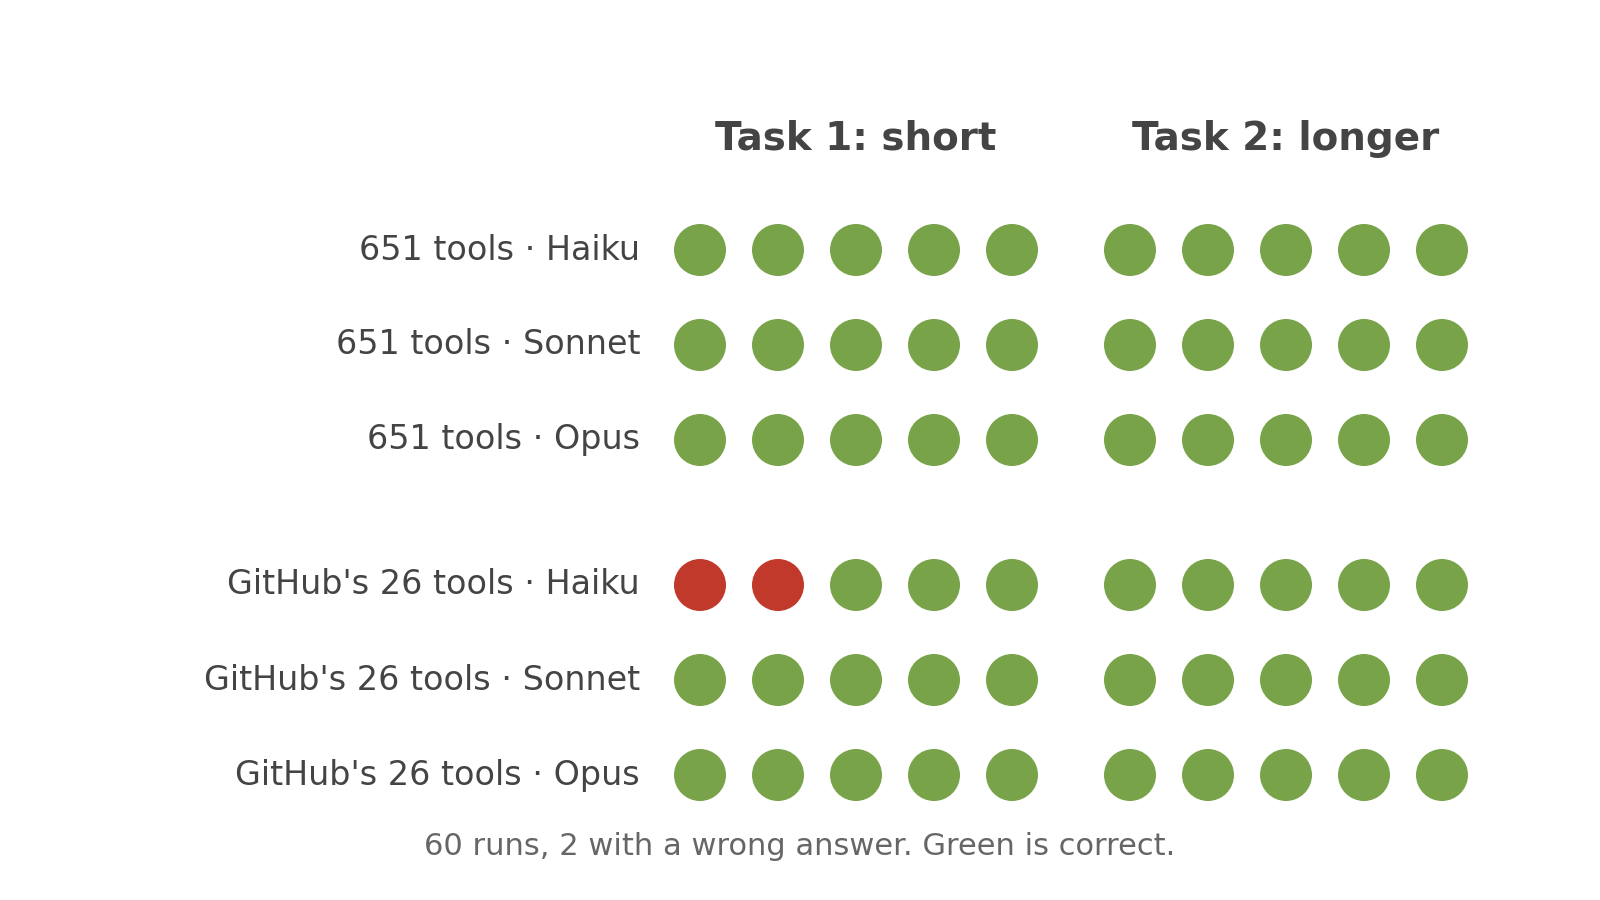
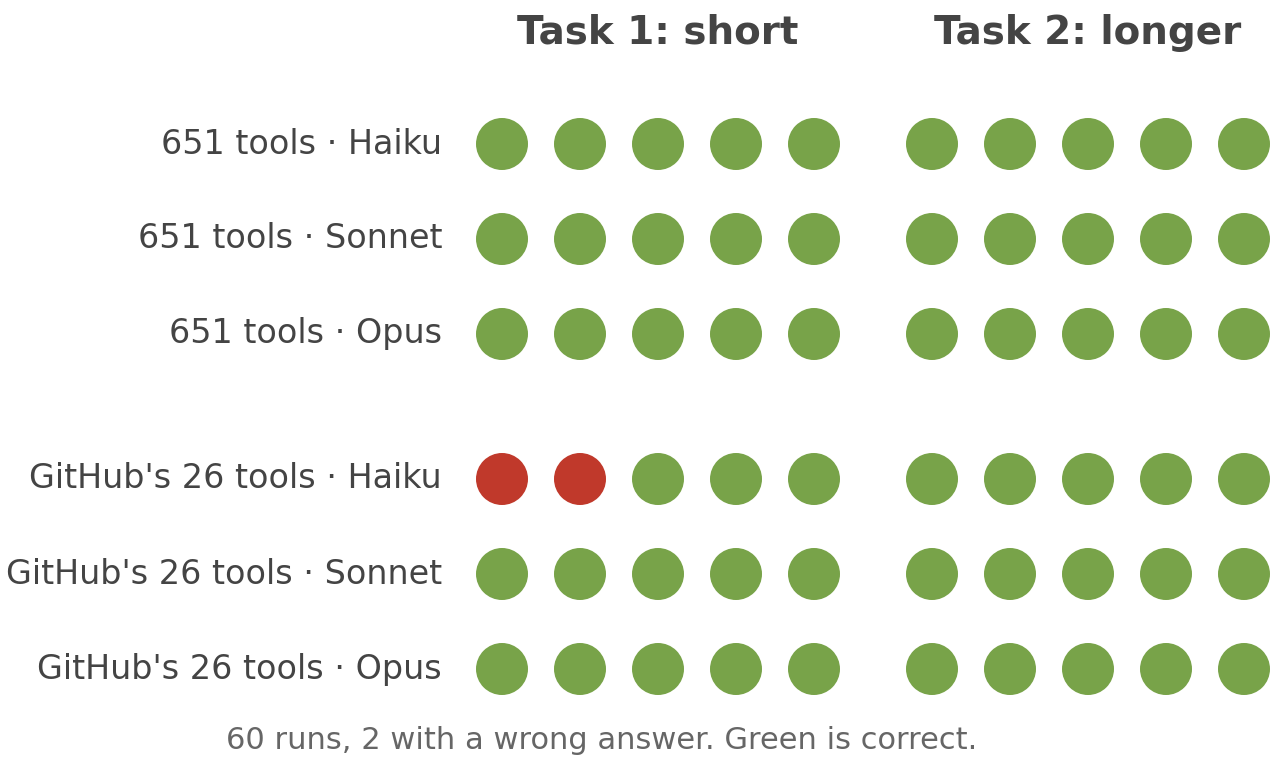
getting slides done

diff --git a/wjax-2026/index.html b/wjax-2026/index.html
@@ -1,5 +1,5 @@
 
-<!-- Do not edit by hand! Generated by Hotspot on 2026-10-28T17:18:39.763+01:00. Edit the source XML document instead! --><!DOCTYPE html
+<!-- Do not edit by hand! Generated by Hotspot on 2026-10-29T15:03:35.924+01:00. Edit the source XML document instead! --><!DOCTYPE html
   PUBLIC "-//W3C//DTD XHTML 1.0 Transitional//EN" "http://www.w3.org/TR/xhtml1/DTD/xhtml1-transitional.dtd">
 <html xmlns="http://www.w3.org/1999/xhtml">
    <head>
@@ -21,18 +21,25 @@
       <link rel="home" href="./" title="W-JAX 2026" />
       <link rel="chapter" href="index" title="What AI Agents Are Teaching Us About Integration" />
       <link rel="section" href="javascript:Kilauea.instances[0].showSlide(2)" title="1: Where This Is Heading" />
-      <link rel="section" href="javascript:Kilauea.instances[0].showSlide(3)" title="2: Agents Meet Your APIs" />
-      <link rel="section" href="javascript:Kilauea.instances[0].showSlide(4)" title="3: A Small Experiment" />
-      <link rel="section" href="javascript:Kilauea.instances[0].showSlide(10)" title="4: As Little AI As Possible" />
-      <link rel="section" href="javascript:Kilauea.instances[0].showSlide(11)" title="5: Architect for Change" />
-      <link rel="section" href="javascript:Kilauea.instances[0].showSlide(12)" title="6: Conclusions" />
+      <link rel="section" href="javascript:Kilauea.instances[0].showSlide(8)" title="2: Agents Meet Your APIs" />
+      <link rel="section" href="javascript:Kilauea.instances[0].showSlide(9)" title="3: A Small Experiment" />
+      <link rel="section" href="javascript:Kilauea.instances[0].showSlide(17)" title="4: As Little AI As Possible" />
+      <link rel="section" href="javascript:Kilauea.instances[0].showSlide(18)" title="5: Architect for Change" />
+      <link rel="section" href="javascript:Kilauea.instances[0].showSlide(19)" title="6: Conclusions" />
       <link rel="bookmark" href="javascript:Kilauea.instances[0].showSlide(1)" title="Erik Wilde" />
-      <link rel="bookmark" href="javascript:Kilauea.instances[0].showSlide(5)" title="651 Tools Is Not Many" />
-      <link rel="bookmark" href="javascript:Kilauea.instances[0].showSlide(6)" title="Everything Worked" />
-      <link rel="bookmark" href="javascript:Kilauea.instances[0].showSlide(7)" title="Same Destination, Different Detours" />
-      <link rel="bookmark" href="javascript:Kilauea.instances[0].showSlide(8)" title="The Price" />
-      <link rel="bookmark" href="javascript:Kilauea.instances[0].showSlide(9)" title="Until a Tool Is Missing" />
-      <link rel="bookmark" href="javascript:Kilauea.instances[0].showSlide(13)" title="Thank You!" />
+      <link rel="bookmark" href="javascript:Kilauea.instances[0].showSlide(3)" title="AI To Do What?" />
+      <link rel="bookmark" href="javascript:Kilauea.instances[0].showSlide(4)" title="Before AI" />
+      <link rel="bookmark" href="javascript:Kilauea.instances[0].showSlide(5)" title="Then It Started Moving" />
+      <link rel="bookmark" href="javascript:Kilauea.instances[0].showSlide(6)" title="Everything Everywhere All at Once" />
+      <link rel="bookmark" href="javascript:Kilauea.instances[0].showSlide(7)" title="Where Does the Line Go?" />
+      <link rel="bookmark" href="javascript:Kilauea.instances[0].showSlide(10)" title="651 Tools Is Not Many" />
+      <link rel="bookmark" href="javascript:Kilauea.instances[0].showSlide(11)" title="Everything Worked" />
+      <link rel="bookmark" href="javascript:Kilauea.instances[0].showSlide(12)" title="Same Destination, Different Detours" />
+      <link rel="bookmark" href="javascript:Kilauea.instances[0].showSlide(13)" title="The Price" />
+      <link rel="bookmark" href="javascript:Kilauea.instances[0].showSlide(14)" title="Where Is the Creation Date?" />
+      <link rel="bookmark" href="javascript:Kilauea.instances[0].showSlide(15)" title="And in the MCP Tool?" />
+      <link rel="bookmark" href="javascript:Kilauea.instances[0].showSlide(16)" title="Until a Tool Is Missing" />
+      <link rel="bookmark" href="javascript:Kilauea.instances[0].showSlide(20)" title="Thank You!" />
       <link rel="alternate" href="wjax.xml" title="XML" />
       <link rel="help" title="Quick Help" href="javascript:Kilauea.instances[0].help()" /><script type="text/javascript" src="hotspot/kilauea/kilauea.js"></script><script type="text/javascript">Kilauea.init({'#body': {titleSeparator: ' ; ', settings: {showToolbar: true, coupleFooter: true, stackBackgrounds: true}, plugins: {touch: {}}}});</script></head>
    <body>
@@ -72,23 +79,41 @@
          <ul>
             <li class="slide-entry"><span class="slidenum">2</span>Erik Wilde
             </li>
+            <li class="part-entry">1 Where This Is Heading
+               <ul>
+                  <li class="slide-entry"><span class="slidenum">4</span>AI To Do What?
+                  </li>
+                  <li class="slide-entry"><span class="slidenum">5</span>Before AI
+                  </li>
+                  <li class="slide-entry"><span class="slidenum">6</span>Then It Started Moving
+                  </li>
+                  <li class="slide-entry"><span class="slidenum">7</span>Everything Everywhere All at Once
+                  </li>
+                  <li class="slide-entry"><span class="slidenum">8</span>Where Does the Line Go?
+                  </li>
+               </ul>
+            </li>
             <li class="part-entry">3 A Small Experiment
                <ul>
-                  <li class="slide-entry"><span class="slidenum">6</span>651 Tools Is Not Many
+                  <li class="slide-entry"><span class="slidenum">11</span>651 Tools Is Not Many
                   </li>
-                  <li class="slide-entry"><span class="slidenum">7</span>Everything Worked
+                  <li class="slide-entry"><span class="slidenum">12</span>Everything Worked
                   </li>
-                  <li class="slide-entry"><span class="slidenum">8</span>Same Destination, Different Detours
+                  <li class="slide-entry"><span class="slidenum">13</span>Same Destination, Different Detours
                   </li>
-                  <li class="slide-entry"><span class="slidenum">9</span>The Price
+                  <li class="slide-entry"><span class="slidenum">14</span>The Price
                   </li>
-                  <li class="slide-entry"><span class="slidenum">10</span>Until a Tool Is Missing
+                  <li class="slide-entry"><span class="slidenum">15</span>Where Is the Creation Date?
+                  </li>
+                  <li class="slide-entry"><span class="slidenum">16</span>And in the MCP Tool?
+                  </li>
+                  <li class="slide-entry"><span class="slidenum">17</span>Until a Tool Is Missing
                   </li>
                </ul>
             </li>
             <li class="part-entry">6 Conclusions
                <ul>
-                  <li class="slide-entry"><span class="slidenum">14</span>Thank You!
+                  <li class="slide-entry"><span class="slidenum">21</span>Thank You!
                   </li>
                </ul>
             </li>
@@ -114,10 +139,10 @@
          <div class="slide outline">
             <h1>Outline<span style="display : none"> (Where This Is Heading)</span></h1>
             <ol class="outline">
-               <li class="expand outline-current">Where This Is Heading [0]</li>
+               <li class="expand outline-current">Where This Is Heading [5]</li>
                <li><a href="#agents-meet-apis" title="go to part &#34;Agents Meet Your APIs&#34;">Agents Meet Your APIs</a> [0]
                </li>
-               <li><a href="#experiment" title="go to part &#34;A Small Experiment&#34;">A Small Experiment</a> [5]
+               <li><a href="#experiment" title="go to part &#34;A Small Experiment&#34;">A Small Experiment</a> [7]
                </li>
                <li><a href="#as-little-ai" title="go to part &#34;As Little AI As Possible&#34;">As Little AI As Possible</a> [0]
                </li>
@@ -127,16 +152,61 @@
                </li>
             </ol>
          </div>
+         <div class="slide" id="ai-chant">
+            <div class="printheader only-media-print">
+               			<span class="part">Where This Is Heading</span>
+               			<span class="author"><span class="vcard"><span class="fn n"><span class="given-name">Erik</span> <span class="family-name">Wilde</span></span></span>: </span>
+               			<span class="presentation">What AI Agents Are Teaching Us About Integration</span> 
+               		
+            </div>
+            <h1><span class="only-media-print printslidenum">(4)</span> AI To Do What?
+            </h1><img src="img/we-want-ai-now.png" class="fullsize" alt="we-want-ai-now.png" /><br /><br /></div>
+         <div class="slide" id="before-ai">
+            <div class="printheader only-media-print">
+               			<span class="part">Where This Is Heading</span>
+               			<span class="author"><span class="vcard"><span class="fn n"><span class="given-name">Erik</span> <span class="family-name">Wilde</span></span></span>: </span>
+               			<span class="presentation">What AI Agents Are Teaching Us About Integration</span> 
+               		
+            </div>
+            <h1><span class="only-media-print printslidenum">(5)</span> Before AI
+            </h1><img src="img/composability-before-ai.png" class="fullsize" alt="composability-before-ai.png" /><br /><br /></div>
+         <div class="slide" id="ai-timeline">
+            <div class="printheader only-media-print">
+               			<span class="part">Where This Is Heading</span>
+               			<span class="author"><span class="vcard"><span class="fn n"><span class="given-name">Erik</span> <span class="family-name">Wilde</span></span></span>: </span>
+               			<span class="presentation">What AI Agents Are Teaching Us About Integration</span> 
+               		
+            </div>
+            <h1><span class="only-media-print printslidenum">(6)</span> Then It Started Moving
+            </h1><img src="img/ai-timeline.png" class="fullsize" alt="ai-timeline.png" /><br /><br /></div>
+         <div class="slide" id="everything-everywhere">
+            <div class="printheader only-media-print">
+               			<span class="part">Where This Is Heading</span>
+               			<span class="author"><span class="vcard"><span class="fn n"><span class="given-name">Erik</span> <span class="family-name">Wilde</span></span></span>: </span>
+               			<span class="presentation">What AI Agents Are Teaching Us About Integration</span> 
+               		
+            </div>
+            <h1><span class="only-media-print printslidenum">(7)</span> Everything Everywhere All at Once
+            </h1><img src="img/composability-everything.png" class="fullsize" alt="composability-everything.png" /><br /><br /></div>
+         <div class="slide" id="the-line">
+            <div class="printheader only-media-print">
+               			<span class="part">Where This Is Heading</span>
+               			<span class="author"><span class="vcard"><span class="fn n"><span class="given-name">Erik</span> <span class="family-name">Wilde</span></span></span>: </span>
+               			<span class="presentation">What AI Agents Are Teaching Us About Integration</span> 
+               		
+            </div>
+            <h1><span class="only-media-print printslidenum">(8)</span> Where Does the Line Go?
+            </h1><img src="img/composability-the-line.png" class="fullsize" alt="composability-the-line.png" /><br /><br /></div>
       </div>
       <div class="part" id="agents-meet-apis">
          <h1 class="partTitle">Agents Meet Your APIs</h1>
          <div class="slide outline">
             <h1>Outline<span style="display : none"> (Agents Meet Your APIs)</span></h1>
             <ol class="outline">
-               <li><a href="#where-heading" title="go to part &#34;Where This Is Heading&#34;">Where This Is Heading</a> [0]
+               <li><a href="#where-heading" title="go to part &#34;Where This Is Heading&#34;">Where This Is Heading</a> [5]
                </li>
                <li class="expand outline-current">Agents Meet Your APIs [0]</li>
-               <li><a href="#experiment" title="go to part &#34;A Small Experiment&#34;">A Small Experiment</a> [5]
+               <li><a href="#experiment" title="go to part &#34;A Small Experiment&#34;">A Small Experiment</a> [7]
                </li>
                <li><a href="#as-little-ai" title="go to part &#34;As Little AI As Possible&#34;">As Little AI As Possible</a> [0]
                </li>
@@ -152,11 +222,11 @@
          <div class="slide outline">
             <h1>Outline<span style="display : none"> (A Small Experiment)</span></h1>
             <ol class="outline">
-               <li><a href="#where-heading" title="go to part &#34;Where This Is Heading&#34;">Where This Is Heading</a> [0]
+               <li><a href="#where-heading" title="go to part &#34;Where This Is Heading&#34;">Where This Is Heading</a> [5]
                </li>
                <li><a href="#agents-meet-apis" title="go to part &#34;Agents Meet Your APIs&#34;">Agents Meet Your APIs</a> [0]
                </li>
-               <li class="expand outline-current">A Small Experiment [5]</li>
+               <li class="expand outline-current">A Small Experiment [7]</li>
                <li><a href="#as-little-ai" title="go to part &#34;As Little AI As Possible&#34;">As Little AI As Possible</a> [0]
                </li>
                <li><a href="#architect-for-change" title="go to part &#34;Architect for Change&#34;">Architect for Change</a> [0]
@@ -172,7 +242,7 @@
                			<span class="presentation">What AI Agents Are Teaching Us About Integration</span> 
                		
             </div>
-            <h1><span class="only-media-print printslidenum">(6)</span> 651 Tools Is Not Many
+            <h1><span class="only-media-print printslidenum">(11)</span> 651 Tools Is Not Many
             </h1><img src="img/scale-651-tools.png" class="fullsize" alt="scale-651-tools.png" /><br /><br /></div>
          <div class="slide" id="experiment-all-runs">
             <div class="printheader only-media-print">
@@ -181,7 +251,7 @@
                			<span class="presentation">What AI Agents Are Teaching Us About Integration</span> 
                		
             </div>
-            <h1><span class="only-media-print printslidenum">(7)</span> Everything Worked
+            <h1><span class="only-media-print printslidenum">(12)</span> Everything Worked
             </h1><img src="img/all-60-runs.png" class="fullsize" alt="all-60-runs.png" /><br /><br /></div>
          <div class="slide" id="experiment-detours">
             <div class="printheader only-media-print">
@@ -190,7 +260,7 @@
                			<span class="presentation">What AI Agents Are Teaching Us About Integration</span> 
                		
             </div>
-            <h1><span class="only-media-print printslidenum">(8)</span> Same Destination, Different Detours
+            <h1><span class="only-media-print printslidenum">(13)</span> Same Destination, Different Detours
             </h1><img src="img/detours-task-2.png" class="fullsize" alt="detours-task-2.png" /><br /><br /></div>
          <div class="slide" id="experiment-price">
             <div class="printheader only-media-print">
@@ -199,8 +269,84 @@
                			<span class="presentation">What AI Agents Are Teaching Us About Integration</span> 
                		
             </div>
-            <h1><span class="only-media-print printslidenum">(9)</span> The Price
+            <h1><span class="only-media-print printslidenum">(14)</span> The Price
             </h1><img src="img/price-per-run.png" class="fullsize" alt="price-per-run.png" /><br /><br /></div>
+         <div class="slide" id="experiment-creation-date">
+            <div class="printheader only-media-print">
+               			<span class="part">A Small Experiment</span>
+               			<span class="author"><span class="vcard"><span class="fn n"><span class="given-name">Erik</span> <span class="family-name">Wilde</span></span></span>: </span>
+               			<span class="presentation">What AI Agents Are Teaching Us About Integration</span> 
+               		
+            </div>
+            <h1><span class="only-media-print printslidenum">(15)</span> Where Is the Creation Date?
+            </h1><pre class="listing"># GitHub OpenAPI description (excerpt)
+paths:
+  /users/{username}:
+    get:
+      operationId: users/get-by-username
+      summary: Get a user
+      responses:
+        "200":
+          content:
+            application/json:
+              schema:
+                oneOf:
+                  - $ref: "#/components/schemas/private-user"
+                  - $ref: "#/components/schemas/public-user"
+components:
+  schemas:
+    public-user:
+      required: [login, id, ..., created_at, ...]
+      properties:
+        created_at:
+          type: string
+          format: date-time
+</pre><div class="ref-container listing-sourceref">
+               <ul class="ref-links">
+                  <li><a href="src/github-openapi-get-user.yaml" class="listing-sourceref" title="github-openapi-get-user.yaml">github-openapi-get-user.yaml</a></li>
+               </ul>
+            </div><br /><br /></div>
+         <div class="slide" id="experiment-mcp-tool">
+            <div class="printheader only-media-print">
+               			<span class="part">A Small Experiment</span>
+               			<span class="author"><span class="vcard"><span class="fn n"><span class="given-name">Erik</span> <span class="family-name">Wilde</span></span></span>: </span>
+               			<span class="presentation">What AI Agents Are Teaching Us About Integration</span> 
+               		
+            </div>
+            <h1><span class="only-media-print printslidenum">(16)</span> And in the MCP Tool?
+            </h1><pre class="listing"># MCP tool definition (from tools/list, trimmed, shown as YAML)
+name: search_users
+description: &gt;-
+  Find GitHub users by username, real name, or other profile information.
+  Useful for locating developers, contributors, or team members.
+inputSchema:
+  type: object
+  properties:
+    query:
+      type: string
+      description: &gt;-
+        User search query. Examples: 'john smith', 'location:seattle',
+        'followers:&gt;100'. Search is automatically scoped to type:user.
+    sort:
+      type: string
+      description: &gt;-
+        Sort users by number of followers or repositories, or when the
+        person joined GitHub.
+      enum: [followers, repositories, joined]
+  required: [query]
+</pre><div class="ref-container listing-sourceref">
+               <ul class="ref-links">
+                  <li><a href="src/github-mcp-search-users.yaml" class="listing-sourceref" title="github-mcp-search-users.yaml">github-mcp-search-users.yaml</a></li>
+               </ul>
+            </div><pre class="listing"># MCP tool result (from tools/call, shown as YAML)
+content:
+  - type: text
+    text: '{"incomplete_results":false,"items":[{"avatar_url":"https://avatars.githubusercontent.com/u/98482?v=4","id":98482,"login":"vilmibm","profile_url":"https://github.com/vilmibm"}],"total_count":1}'
+</pre><div class="ref-container listing-sourceref">
+               <ul class="ref-links">
+                  <li><a href="src/github-mcp-search-users-result.yaml" class="listing-sourceref" title="github-mcp-search-users-result.yaml">github-mcp-search-users-result.yaml</a></li>
+               </ul>
+            </div><br /><br /></div>
          <div class="slide" id="experiment-missing-tool">
             <div class="printheader only-media-print">
                			<span class="part">A Small Experiment</span>
@@ -208,7 +354,7 @@
                			<span class="presentation">What AI Agents Are Teaching Us About Integration</span> 
                		
             </div>
-            <h1><span class="only-media-print printslidenum">(10)</span> Until a Tool Is Missing
+            <h1><span class="only-media-print printslidenum">(17)</span> Until a Tool Is Missing
             </h1><img src="img/binary-search.png" class="fullsize" alt="binary-search.png" /><br /><br /></div>
       </div>
       <div class="part" id="as-little-ai">
@@ -216,11 +362,11 @@
          <div class="slide outline">
             <h1>Outline<span style="display : none"> (As Little AI As Possible)</span></h1>
             <ol class="outline">
-               <li><a href="#where-heading" title="go to part &#34;Where This Is Heading&#34;">Where This Is Heading</a> [0]
+               <li><a href="#where-heading" title="go to part &#34;Where This Is Heading&#34;">Where This Is Heading</a> [5]
                </li>
                <li><a href="#agents-meet-apis" title="go to part &#34;Agents Meet Your APIs&#34;">Agents Meet Your APIs</a> [0]
                </li>
-               <li><a href="#experiment" title="go to part &#34;A Small Experiment&#34;">A Small Experiment</a> [5]
+               <li><a href="#experiment" title="go to part &#34;A Small Experiment&#34;">A Small Experiment</a> [7]
                </li>
                <li class="expand outline-current">As Little AI As Possible [0]</li>
                <li><a href="#architect-for-change" title="go to part &#34;Architect for Change&#34;">Architect for Change</a> [0]
@@ -235,11 +381,11 @@
          <div class="slide outline">
             <h1>Outline<span style="display : none"> (Architect for Change)</span></h1>
             <ol class="outline">
-               <li><a href="#where-heading" title="go to part &#34;Where This Is Heading&#34;">Where This Is Heading</a> [0]
+               <li><a href="#where-heading" title="go to part &#34;Where This Is Heading&#34;">Where This Is Heading</a> [5]
                </li>
                <li><a href="#agents-meet-apis" title="go to part &#34;Agents Meet Your APIs&#34;">Agents Meet Your APIs</a> [0]
                </li>
-               <li><a href="#experiment" title="go to part &#34;A Small Experiment&#34;">A Small Experiment</a> [5]
+               <li><a href="#experiment" title="go to part &#34;A Small Experiment&#34;">A Small Experiment</a> [7]
                </li>
                <li><a href="#as-little-ai" title="go to part &#34;As Little AI As Possible&#34;">As Little AI As Possible</a> [0]
                </li>
@@ -254,11 +400,11 @@
          <div class="slide outline">
             <h1>Outline<span style="display : none"> (Conclusions)</span></h1>
             <ol class="outline">
-               <li><a href="#where-heading" title="go to part &#34;Where This Is Heading&#34;">Where This Is Heading</a> [0]
+               <li><a href="#where-heading" title="go to part &#34;Where This Is Heading&#34;">Where This Is Heading</a> [5]
                </li>
                <li><a href="#agents-meet-apis" title="go to part &#34;Agents Meet Your APIs&#34;">Agents Meet Your APIs</a> [0]
                </li>
-               <li><a href="#experiment" title="go to part &#34;A Small Experiment&#34;">A Small Experiment</a> [5]
+               <li><a href="#experiment" title="go to part &#34;A Small Experiment&#34;">A Small Experiment</a> [7]
                </li>
                <li><a href="#as-little-ai" title="go to part &#34;As Little AI As Possible&#34;">As Little AI As Possible</a> [0]
                </li>
@@ -274,7 +420,7 @@
                			<span class="presentation">What AI Agents Are Teaching Us About Integration</span> 
                		
             </div>
-            <h1><span class="only-media-print printslidenum">(14)</span> Thank You!
+            <h1><span class="only-media-print printslidenum">(21)</span> Thank You!
             </h1><img src="img/end.jpg" title="This is the End" style="float: right ; height : 65% ; margin : 0% 4% 4% 4% ; filter: drop-shadow(0px 0px 10px rgba(0,0,0,0.6)) ; " alt="This is the End" /><ul>
                <li><a class="extra " href="https://www.youtube.com/ErikWilde" title="https://www.youtube.com/ErikWilde"><img src="img/youtube-logo.png" style=" height : 1em ; " alt="youtube-logo.png" /> <code>youtube.com/ErikWilde</code></a><span class="print-href"> [https://www.youtube.com/ErikWilde]</span></li>
                <li><a class="extra " href="https://www.linkedin.com/in/erikwilde" title="https://www.linkedin.com/in/erikwilde"><img src="img/linkedin-logo.png" style=" height : 1em ; " alt="linkedin-logo.png" /> <code>linkedin.com/in/erikwilde</code></a><span class="print-href"> [https://www.linkedin.com/in/erikwilde]</span></li>
